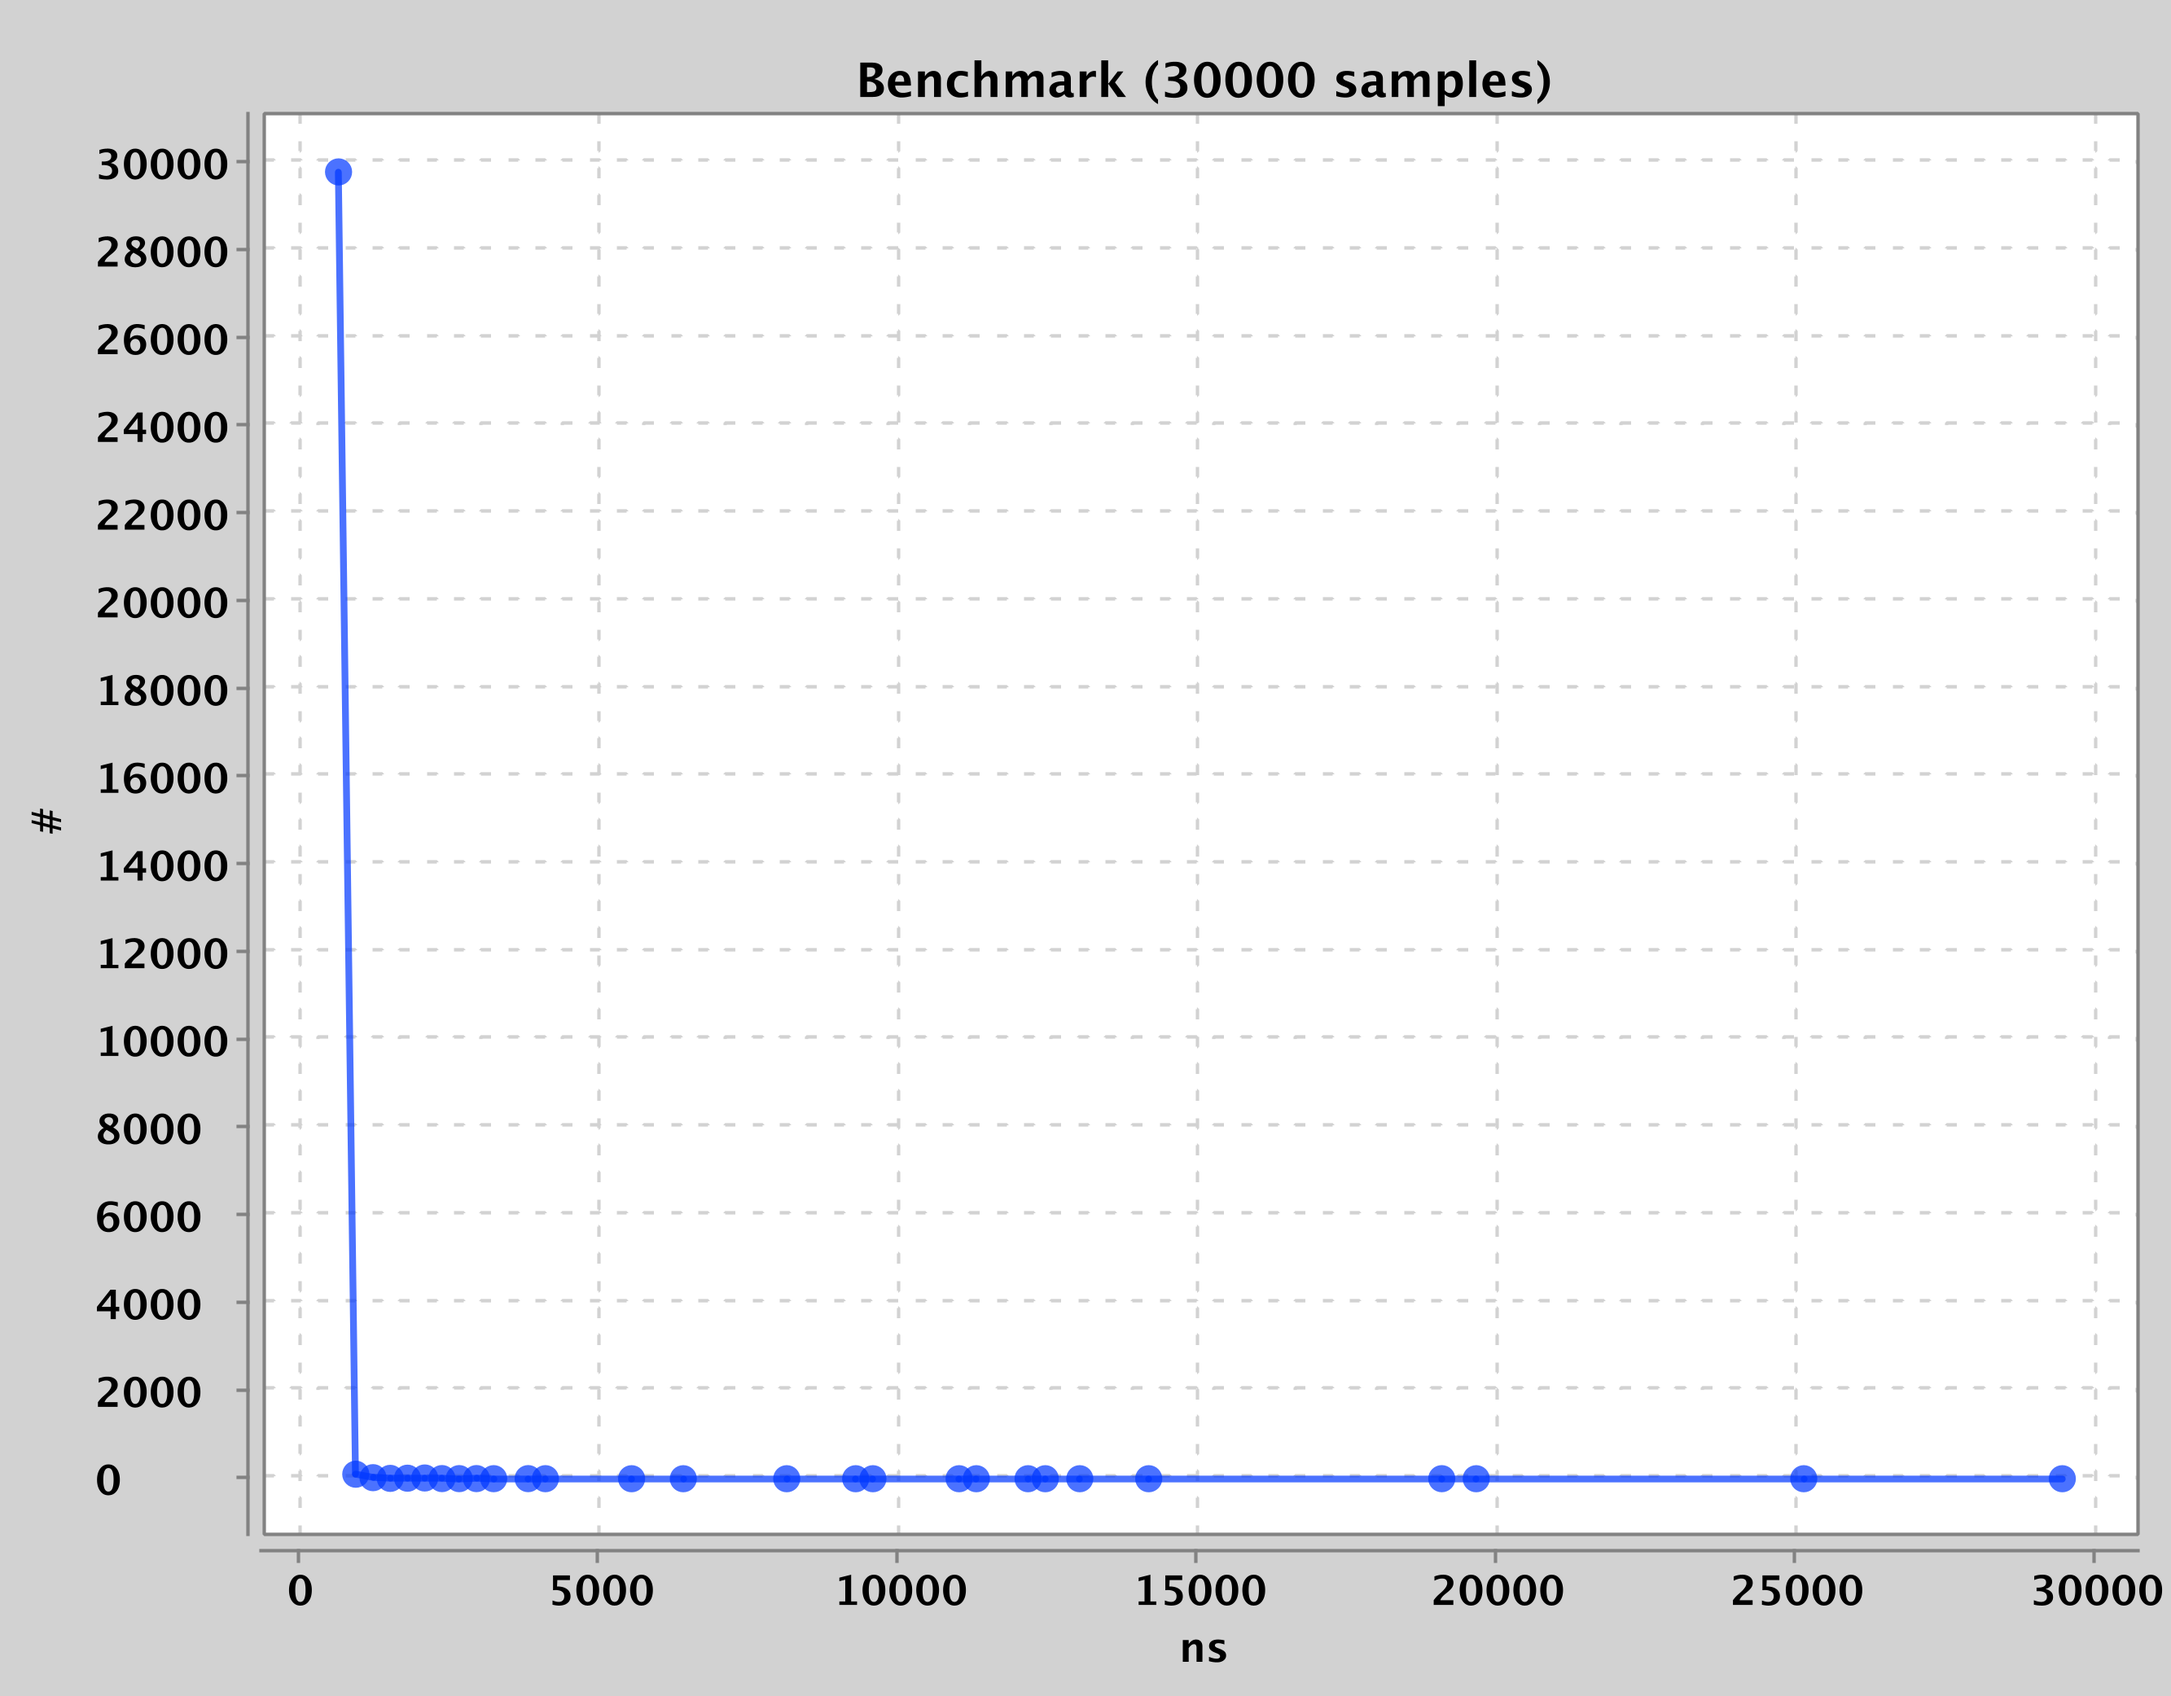
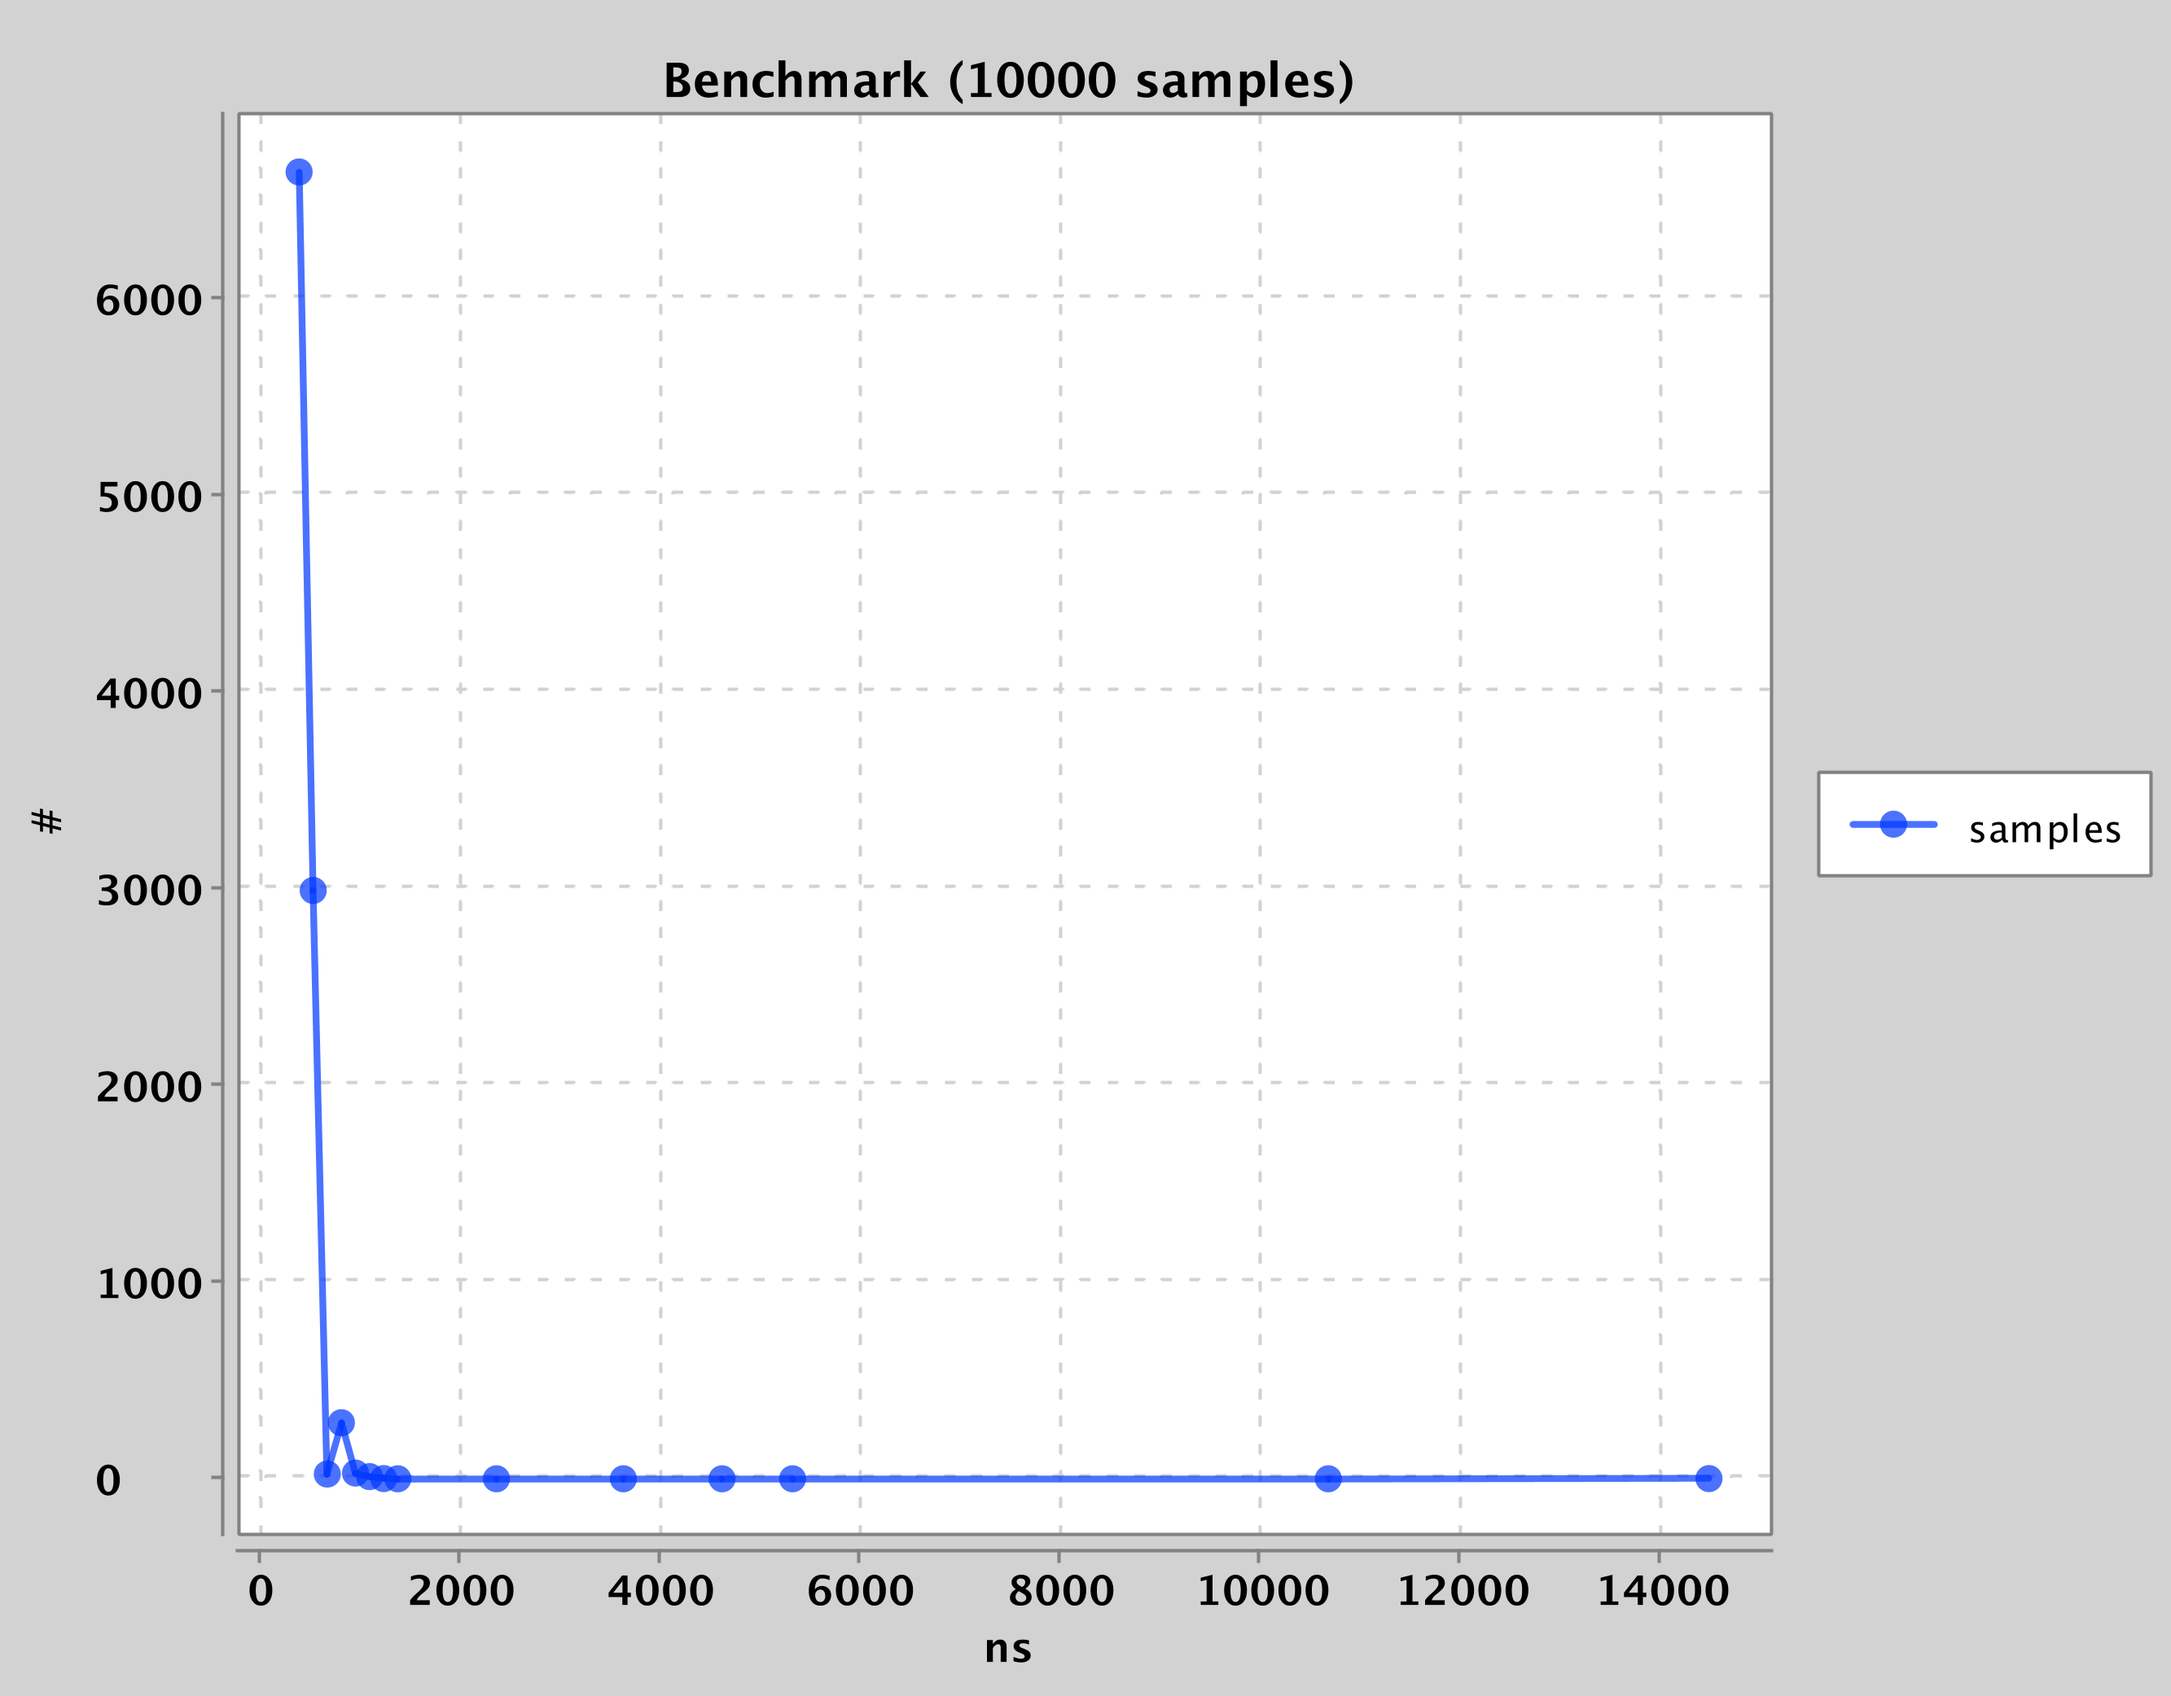
updated readme

diff --git a/doc/readme/profiling.md b/doc/readme/profiling.md
@@ -30,7 +30,7 @@ Benchmarking an expression incorporates four phases:
 ```clojure
 (do
   (load-module :benchmark)
-  (bench/benchmark (+ 1 2 3 4) 1000000 30000))
+  (bench/benchmark (+ 1 2 3 4) 120000 10000))
 ```
 
 The benchmark output: 
@@ -40,14 +40,14 @@ Warmup...
 GC...
 Sampling...
 Analyzing...
-                      Samples :   30000
-          Execution time mean : 672,000 ns
- Execution time std-deviation :  20,048 ns
-Execution time lower quartile : 660,000 ns (25%)
-Execution time upper quartile : 692,000 ns (75%)
-Execution time lower quantile : 653,000 ns (2.5%)
-Execution time upper quantile : 727,000 ns (97.5%)
-                     Outliers :     326
+                      Samples :   10000
+          Execution time mean :  460.000ns
+ Execution time std-deviation :   67.452ns
+Execution time lower quartile :  455.000ns (25%)
+Execution time upper quartile :  574.000ns (75%)
+Execution time lower quantile :  420.000ns (2.5%)
+Execution time upper quantile :  616.000ns (97.5%)
+                     Outliers :      18
 ```
 
 ### Outliers
@@ -88,7 +88,7 @@ Saved chart to 'benchmark.png'.
 
 
 ```clojure
-(bench/benchmark (+ 1 2 3 4) 100000 30000 :chart true)
+(bench/benchmark (+ 1 2 3 4) 120000 10000 :chart true)
 ```
 
 ```text
@@ -96,16 +96,16 @@ Warmup...
 GC...
 Sampling...
 Analyzing...
-                      Samples :   30000
-          Execution time mean : 698,000 ns
- Execution time std-deviation :   9,098 ns
-Execution time lower quartile : 694,000 ns (25%)
-Execution time upper quartile : 705,000 ns (75%)
-Execution time lower quantile : 687,000 ns (2.5%)
-Execution time upper quantile : 727,000 ns (97.5%)
-                     Outliers :     436
+                      Samples :   10000
+          Execution time mean :  462.000ns
+ Execution time std-deviation :   85.202ns
+Execution time lower quartile :  456.000ns (25%)
+Execution time upper quartile :  576.000ns (75%)
+Execution time lower quantile :  421.000ns (2.5%)
+Execution time upper quantile :  845.000ns (97.5%)
+                     Outliers :      64
 Generating chart...
-Quantization step width: 288 ns
+Quantization step width: 141ns
 Saved chart to 'benchmark.png'.
 ```
 
